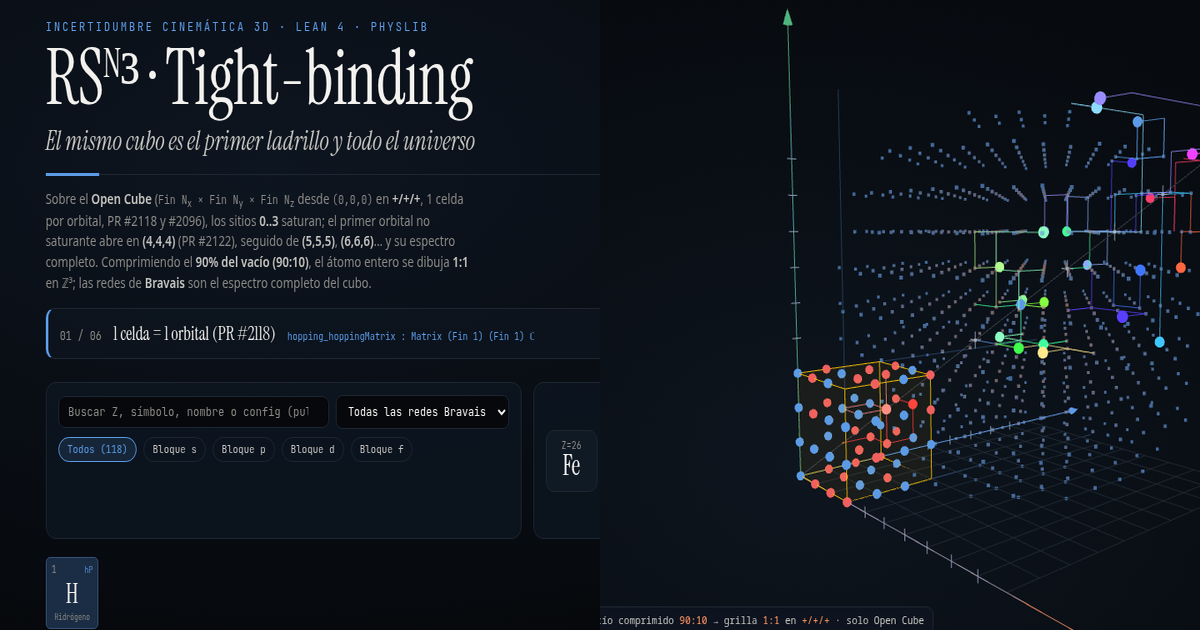
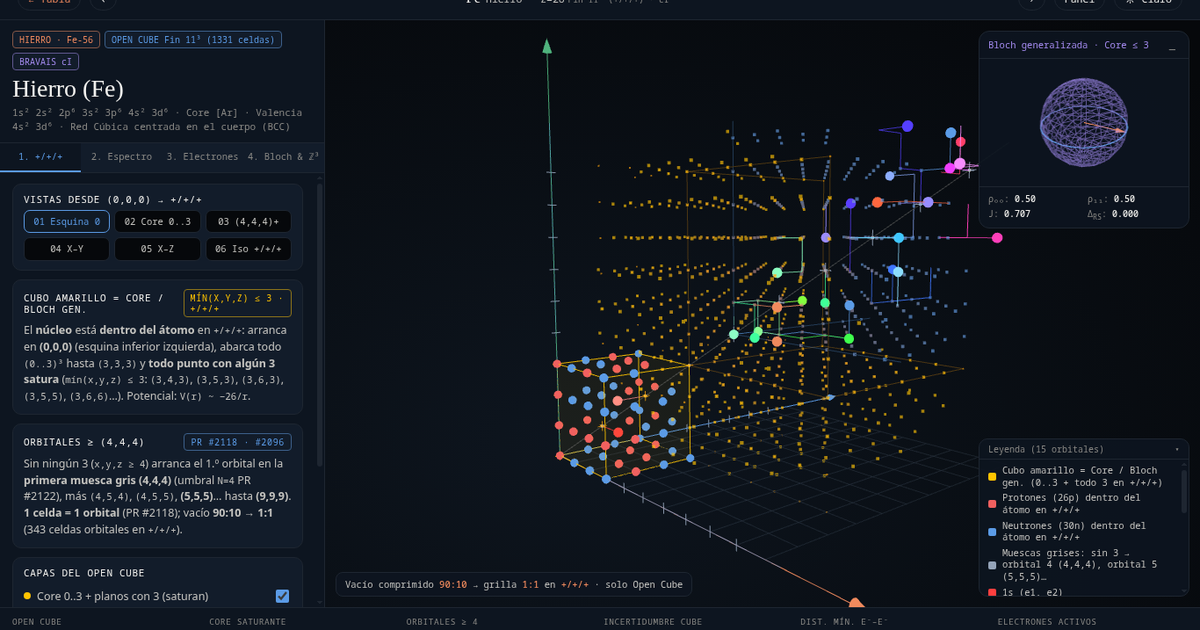
fix(canon-v2): nucleo 100% dentro de +/+/+ desde (0,0,0), planos saturantes con 3 y orbitales >= (4,4,4)

diff --git a/docs/shared/js/visor-cubo.js b/docs/shared/js/visor-cubo.js
@@ -59,8 +59,8 @@
   // ---- Poblar HUD textual por elemento (cero residuos heredados) -----------
   var N = elem.cajaN;
   var totalSites = N * N * N;
-  var coreSitesPos = 64; // (0..3)^3 en +/+/+
-  var freeSitesPos = totalSites - coreSitesPos;
+  var freeSitesPos = Math.pow(Math.max(0, N - 4), 3); // x,y,z >= 4 sin ningún 3
+  var coreSitesPos = totalSites - freeSitesPos; // min(x,y,z) <= 3 en +/+/+
   var cN = calcCN(N);
   var detRatio = Math.pow(cN, 6);
 
@@ -73,13 +73,12 @@
     " · Valencia " + elem.valencia + " · Red " + elem.bravais.nombre;
 
   document.getElementById("core-desc-txt").innerHTML =
-    "El <b>cubo amarillo</b> (<code>[-3,3]³</code> = 343 sitios, octante <code>+/+/+</code> en <code>0..3</code>) <b>es</b> la esfera de Bloch generalizada para todos los átomos: " +
-    "aloja los protones (rojo), neutrones (azul) y electrones saturados (<code>d ≤ 3</code>). Potencial de referencia: <code>V(r) ~ −" + elem.z + "/r</code>.";
+    "El <b>núcleo</b> está <b>dentro del átomo</b> en <code>+/+/+</code>: arranca en <b>(0,0,0)</b> (esquina inferior izquierda), abarca todo <code>(0..3)³</code> hasta <code>(3,3,3)</code> y <b>todo punto con algún 3 satura</b> (<code>mín(x,y,z) ≤ 3</code>: <code>(3,4,3)</code>, <code>(3,5,3)</code>, <code>(3,6,3)</code>, <code>(3,5,5)</code>, <code>(3,6,6)</code>…). Potencial: <code>V(r) ~ −" + elem.z + "/r</code>.";
 
   document.getElementById("open-desc-txt").innerHTML =
-    "Pasado el cubo amarillo, la <b>primera muesca gris</b> en <b>(4,4,4)</b> es el <b>orbital 4</b> (1.º no saturado fuera del núcleo, umbral <code>N=4</code> PR #2122), seguido de <b>(5,5,5)</b> (orbital 5)… hasta " +
+    "Sin ningún 3 (<code>x,y,z ≥ 4</code>) arranca el 1.º orbital en la <b>primera muesca gris (4,4,4)</b> (umbral <code>N=4</code> PR #2122), más <code>(4,5,4)</code>, <code>(4,5,5)</code>, <b>(5,5,5)</b>… hasta " +
     (elem.kMax >= 4 ? "<b>(" + elem.kMax + "," + elem.kMax + "," + elem.kMax + ")</b>" : "el borde abierto") +
-    ". <b>1 celda = 1 orbital</b> (PR #2118); vacío comprimido <b>90:10 → 1:1</b> (" + freeSitesPos + " celdas en <code>+/+/+</code>).";
+    ". <b>1 celda = 1 orbital</b> (PR #2118); vacío <b>90:10 → 1:1</b> (" + freeSitesPos + " celdas orbitales en <code>+/+/+</code>).";
 
   document.getElementById("bravais-link").href = "https://naype888-cloud.github.io/nrs3-cristales/lab/#" + elem.bravais.id;
   document.getElementById("bravais-txt").textContent =
@@ -87,7 +86,7 @@
     "Las redes de Bravais son el espectro completo de pasos de eje del cubo.";
 
   document.getElementById("stat-cubo").textContent = "Fin " + N + "³ (+/+/+)";
-  document.getElementById("stat-core").textContent = "0..3 (64 pos / 343 tot)";
+  document.getElementById("stat-core").textContent = "0..3 + todo 3 (" + coreSitesPos + " en +/+/+)";
   document.getElementById("stat-orb").textContent = elem.kMax >= 4 ? "(4,4,4)→(" + elem.kMax + "," + elem.kMax + "," + elem.kMax + ")" : "(4,4,4) umbral";
   document.getElementById("stat-cn").textContent = "C_" + N + "=" + cN.toFixed(4) + " · ΠC²=" + detRatio.toFixed(3);
   document.getElementById("stat-elec").textContent = elem.z + " / " + elem.z;
@@ -220,48 +219,75 @@
   }
 
   function buildCoreSaturante() {
-    // Cubo amarillo saturante = Esfera de Bloch generalizada (d <= 3):
-    // octante +/+/+ [0,3]^3 (64 sitios) y envolvente tenue del core completo [-3,3]^3 (343 sitios)
+    // Núcleo y cubo amarillo 100% DENTRO de +/+/+ (nunca en coordenadas negativas < 0):
+    // 1) Bloque interior [0,3]^3 desde la esquina inferior izquierda (0,0,0) hasta (3,3,3) (64 sitios).
+    // 2) Todo punto en +/+/+ que contenga un 3 (min(x,y,z) <= 3): planos x=3, y=3, z=3 hacia 4,5,6...
+    //    incluyendo (3,4,3), (3,5,3), (3,6,3), (3,5,5), (3,6,6), etc.
     var box = new THREE.BoxGeometry(3, 3, 3);
     box.translate(1.5, 1.5, 1.5);
     gCore.add(new THREE.LineSegments(
       new THREE.EdgesGeometry(box),
-      new THREE.LineBasicMaterial({ color: 0xffc400, transparent: true, opacity: 0.85 })
+      new THREE.LineBasicMaterial({ color: 0xffc400, transparent: true, opacity: 0.88 })
     ));
     gCore.add(new THREE.Mesh(
       box,
-      new THREE.MeshBasicMaterial({ color: 0xffc400, transparent: true, opacity: 0.055, depthWrite: false })
+      new THREE.MeshBasicMaterial({ color: 0xffc400, transparent: true, opacity: 0.06, depthWrite: false })
     ));
-    // Envolvente tenue del core completo 343 sitios [-3,3]^3 cuando A > 64
-    if (elem.z + elem.n > 64) {
-      var fullBox = new THREE.BoxGeometry(6, 6, 6);
-      gCore.add(new THREE.LineSegments(
-        new THREE.EdgesGeometry(fullBox),
-        new THREE.LineBasicMaterial({ color: 0xffc400, transparent: true, opacity: 0.24 })
-      ));
-    }
-    // Sitios internos de [0,3]^3 (1..3 dorado, 0 gris tenue)
-    var ptsHab = [], ptsZero = [];
-    for (var x = 0; x <= 3; x++) for (var y = 0; y <= 3; y++) for (var z = 0; z <= 3; z++) {
-      if (x === 0 || y === 0 || z === 0) ptsZero.push(x, y, z);
-      else ptsHab.push(x, y, z);
+
+    // Sitios del bloque [0,3]^3 llegando explícitamente hasta (0,0,0) + franjas saturantes con 3 (hasta lim)
+    var ptsInner = [], ptsSlab3 = [], ptsZero = [];
+    var lim = Math.min(N - 1, Math.max(7, elem.kMax));
+    for (var x = 0; x <= lim; x++) {
+      for (var y = 0; y <= lim; y++) {
+        for (var z = 0; z <= lim; z++) {
+          if (x <= 3 && y <= 3 && z <= 3) {
+            if (x === 0 || y === 0 || z === 0) ptsZero.push(x, y, z);
+            else ptsInner.push(x, y, z);
+          } else if (x === 3 || y === 3 || z === 3) {
+            // Todo punto en +/+/+ que lleva al menos un 3 satura: (3,4,3), (3,5,3), (3,6,3), (3,5,5), (3,6,6)...
+            ptsSlab3.push(x, y, z);
+          }
+        }
+      }
     }
     var gH = new THREE.BufferGeometry();
-    gH.setAttribute("position", new THREE.Float32BufferAttribute(ptsHab, 3));
-    gCore.add(new THREE.Points(gH, new THREE.PointsMaterial({ color: 0xffc400, size: 0.11, transparent: true, opacity: 0.72 })));
+    gH.setAttribute("position", new THREE.Float32BufferAttribute(ptsInner, 3));
+    gCore.add(new THREE.Points(gH, new THREE.PointsMaterial({ color: 0xffc400, size: 0.13, transparent: true, opacity: 0.8 })));
     var gZ = new THREE.BufferGeometry();
     gZ.setAttribute("position", new THREE.Float32BufferAttribute(ptsZero, 3));
-    gCore.add(new THREE.Points(gZ, new THREE.PointsMaterial({ color: 0x8a8985, size: 0.07, transparent: true, opacity: 0.35 })));
+    gCore.add(new THREE.Points(gZ, new THREE.PointsMaterial({ color: 0xf59e0b, size: 0.09, transparent: true, opacity: 0.55 })));
+    if (ptsSlab3.length) {
+      var gS3 = new THREE.BufferGeometry();
+      gS3.setAttribute("position", new THREE.Float32BufferAttribute(ptsSlab3, 3));
+      gCore.add(new THREE.Points(gS3, new THREE.PointsMaterial({ color: 0xf59e0b, size: 0.12, transparent: true, opacity: 0.68 })));
+    }
+    // Guías sutiles de las 3 paredes x=3, y=3, z=3 extendiéndose en +/+/+ (si tiene un 3, satura)
+    var wallMat = new THREE.LineBasicMaterial({ color: 0xf59e0b, transparent: true, opacity: 0.28 });
+    var wallLines = [
+      [[3, 3, 3], [lim, 3, 3]], [[3, 3, 3], [3, lim, 3]], [[3, 3, 3], [3, 3, lim]],
+      [[3, lim, 3], [lim, lim, 3]], [[lim, 3, 3], [lim, lim, 3]],
+      [[3, 3, lim], [lim, 3, lim]], [[lim, 3, 3], [lim, 3, lim]],
+      [[3, 3, lim], [3, lim, lim]], [[3, lim, 3], [3, lim, lim]]
+    ];
+    wallLines.forEach(function (seg) {
+      gCore.add(new THREE.Line(
+        new THREE.BufferGeometry().setFromPoints([
+          new THREE.Vector3(seg[0][0], seg[0][1], seg[0][2]),
+          new THREE.Vector3(seg[1][0], seg[1][1], seg[1][2])
+        ]),
+        wallMat
+      ));
+    });
   }
 
   function buildOpenCubeFrame() {
-    // Marco abierto desde (0,0,0) hacia +/+/+ -> inf (sin tapa cerrada en el extremo lejano)
+    // Marco abierto desde (0,0,0) hacia +/+/+ -> inf + frontera pura de orbitales (4,4,4)+
     var L = N - 0.5;
     var mat = new THREE.LineBasicMaterial({ color: 0x5b9be6, transparent: true, opacity: 0.3 });
     var rays = [
       [[0,0,0],[L,0,0]], [[0,0,0],[0,L,0]], [[0,0,0],[0,0,L]],
       [[3,0,0],[L,0,0]], [[0,3,0],[0,L,0]], [[0,0,3],[0,0,L]],
-      [[3,3,0],[L,3,0]], [[3,0,3],[L,0,3]], [[0,3,3],[0,L,3]]
+      [[4,4,4],[L,4,4]], [[4,4,4],[4,L,4]], [[4,4,4],[4,4,L]]
     ];
     rays.forEach(function (r) {
       gOpenBox.add(new THREE.Line(
@@ -270,59 +296,63 @@
       ));
     });
 
-    // Muescas grises de referencia para los orbitales 4, 5, ... (sin cubitos ni cajas amarillas)
+    // Muescas de referencia desde (0,0,0): 0..3 interior saturante (dorado) y >= 4 orbitales (gris)
     var maxK = Math.max(5, elem.kMax);
+    var coreTickMat = new THREE.LineBasicMaterial({ color: 0xf59e0b, transparent: true, opacity: 0.8 });
     var notchMat = new THREE.LineBasicMaterial({ color: 0x94a3b8, transparent: true, opacity: 0.9 });
     var notchPts = [];
-    for (var k = 4; k <= maxK; k++) {
-      var d = 0.24;
+    for (var k = 0; k <= maxK; k++) {
+      var m = k <= 3 ? coreTickMat : notchMat;
+      var d = k <= 3 ? 0.16 : 0.24;
       notchPts.push(k, k, k);
-      gOpenBox.add(new THREE.Line(new THREE.BufferGeometry().setFromPoints([new THREE.Vector3(k - d, k, k), new THREE.Vector3(k + d, k, k)]), notchMat));
-      gOpenBox.add(new THREE.Line(new THREE.BufferGeometry().setFromPoints([new THREE.Vector3(k, k - d, k), new THREE.Vector3(k, k + d, k)]), notchMat));
-      gOpenBox.add(new THREE.Line(new THREE.BufferGeometry().setFromPoints([new THREE.Vector3(k, k, k - d), new THREE.Vector3(k, k, k + d)]), notchMat));
-      // Muescas sobre ejes +X, +Y, +Z
-      gOpenBox.add(new THREE.Line(new THREE.BufferGeometry().setFromPoints([new THREE.Vector3(k, -0.15, 0), new THREE.Vector3(k, 0.15, 0)]), notchMat));
-      gOpenBox.add(new THREE.Line(new THREE.BufferGeometry().setFromPoints([new THREE.Vector3(-0.15, k, 0), new THREE.Vector3(0.15, k, 0)]), notchMat));
-      gOpenBox.add(new THREE.Line(new THREE.BufferGeometry().setFromPoints([new THREE.Vector3(0, -0.15, k), new THREE.Vector3(0, 0.15, k)]), notchMat));
+      gOpenBox.add(new THREE.Line(new THREE.BufferGeometry().setFromPoints([new THREE.Vector3(k - d, k, k), new THREE.Vector3(k + d, k, k)]), m));
+      gOpenBox.add(new THREE.Line(new THREE.BufferGeometry().setFromPoints([new THREE.Vector3(k, k - d, k), new THREE.Vector3(k, k + d, k)]), m));
+      gOpenBox.add(new THREE.Line(new THREE.BufferGeometry().setFromPoints([new THREE.Vector3(k, k, k - d), new THREE.Vector3(k, k, k + d)]), m));
+      // Muescas sobre ejes +X, +Y, +Z desde 0
+      gOpenBox.add(new THREE.Line(new THREE.BufferGeometry().setFromPoints([new THREE.Vector3(k, -0.15, 0), new THREE.Vector3(k, 0.15, 0)]), m));
+      gOpenBox.add(new THREE.Line(new THREE.BufferGeometry().setFromPoints([new THREE.Vector3(-0.15, k, 0), new THREE.Vector3(0.15, k, 0)]), m));
+      gOpenBox.add(new THREE.Line(new THREE.BufferGeometry().setFromPoints([new THREE.Vector3(0, -0.15, k), new THREE.Vector3(0, 0.15, k)]), m));
     }
     var nGeom = new THREE.BufferGeometry();
     nGeom.setAttribute("position", new THREE.Float32BufferAttribute(notchPts, 3));
     gOpenBox.add(new THREE.Points(nGeom, new THREE.PointsMaterial({ color: 0xc4c3bf, size: 0.22 })));
 
-    // Guía diagonal sutil (0,0,0) -> (4,4,4) -> (5,5,5) -> inf
+    // Guía diagonal continua desde el ancla inferior izquierda (0,0,0) -> (3,3,3) -> (4,4,4) -> (5,5,5) -> inf
     gOpenBox.add(new THREE.Line(
       new THREE.BufferGeometry().setFromPoints([new THREE.Vector3(0, 0, 0), new THREE.Vector3(maxK + 0.8, maxK + 0.8, maxK + 0.8)]),
-      new THREE.LineBasicMaterial({ color: 0x8a8985, transparent: true, opacity: 0.35 })
+      new THREE.LineBasicMaterial({ color: 0x8a8985, transparent: true, opacity: 0.42 })
     ));
   }
 
   function buildNucleusInCore() {
-    // Protones (rojos) y neutrones (azules) distribuidos entre cualquiera de los 343 sitios internos
-    // del cubo amarillo saturante [-3,3]^3 (priorizando primero el octante +/+/+ [0,3]^3).
-    var sites343 = [];
-    for (var x = -3; x <= 3; x++) {
-      for (var y = -3; y <= 3; y++) {
-        for (var z = -3; z <= 3; z++) {
-          if (x === 0 && y === 0 && z === 0) continue;
-          // No pisar los sitios iniciales de 1s (1,1,1) y (2,2,2)
-          if ((x === 1 && y === 1 && z === 1) || (x === 2 && y === 2 && z === 2)) continue;
-          var inPosHab = (x >= 1 && y >= 1 && z >= 1);
-          var inPos = (x >= 0 && y >= 0 && z >= 0);
+    // Protones (rojos) y neutrones (azules) 100% DENTRO del átomo en +/+/+ (NUNCA x,y,z < 0).
+    // Empieza en (0,0,0), abarca todo [0,3]^3 hacia (3,3,3) y continúa por todos los sitios con algún 3
+    // (min(x,y,z) <= 3: (3,4,3), (3,5,3), (3,6,3), (3,5,5), (3,6,6)...) hasta alojar los A nucleones.
+    var satSites = [];
+    var lim = Math.min(N - 1, Math.max(7, elem.kMax));
+    for (var x = 0; x <= lim; x++) {
+      for (var y = 0; y <= lim; y++) {
+        for (var z = 0; z <= lim; z++) {
+          if (x > 3 && y > 3 && z > 3) continue; // Si no tiene ningún 3 (o <= 3) es orbital, no núcleo
+          if ((x === 1 && y === 1 && z === 1) || (x === 2 && y === 2 && z === 2)) continue; // slots iniciales 1s
+          var inBox03 = (x <= 3 && y <= 3 && z <= 3);
+          var has3 = (x === 3 || y === 3 || z === 3);
+          var tier = (x === 0 && y === 0 && z === 0) ? 0 : (inBox03 ? 1 : (has3 ? 2 : 3));
+          var maxC = Math.max(x, y, z);
           var dist = x * x + y * y + z * z;
-          sites343.push({ p: [x, y, z], tier: inPosHab ? 0 : (inPos ? 1 : 2), dist: dist });
+          satSites.push({ p: [x, y, z], tier: tier, maxC: maxC, dist: dist });
         }
       }
     }
-    sites343.push({ p: [0, 0, 0], tier: 1, dist: 0 });
-    sites343.sort(function (a, b) {
-      return a.tier - b.tier || a.dist - b.dist || a.p[0] - b.p[0];
+    satSites.sort(function (a, b) {
+      return a.tier - b.tier || a.maxC - b.maxC || a.dist - b.dist || a.p[0] - b.p[0] || a.p[1] - b.p[1];
     });
 
     var A = elem.z + elem.n;
     var pCount = elem.z, nCount = elem.n;
     var pPos = [], nPos = [];
-    for (var i = 0; i < A && i < sites343.length; i++) {
-      var pt = sites343[i].p;
+    for (var i = 0; i < A && i < satSites.length; i++) {
+      var pt = satSites[i].p;
       var isP = (i % 2 === 0 && pCount > 0) || nCount === 0;
       if (isP) { pCount--; pPos.push(pt); } else { nCount--; nPos.push(pt); }
     }
@@ -419,7 +449,7 @@
         sc.set(s, s, s);
         m4.compose(pos, q, sc);
         specMesh.setMatrixAt(i, m4);
-        var isSat = coords[3 * i] <= 3 && coords[3 * i + 1] <= 3 && coords[3 * i + 2] <= 3;
+        var isSat = coords[3 * i] <= 3 || coords[3 * i + 1] <= 3 || coords[3 * i + 2] <= 3;
         col.copy(isSat ? cSat : cOpen).lerp(cHot, wn * 0.72);
         specMesh.setColorAt(i, col);
       }
@@ -436,7 +466,7 @@
         pArr[3 * j] = coords[3 * j];
         pArr[3 * j + 1] = coords[3 * j + 1];
         pArr[3 * j + 2] = coords[3 * j + 2];
-        var isSat2 = coords[3 * j] <= 3 && coords[3 * j + 1] <= 3 && coords[3 * j + 2] <= 3;
+        var isSat2 = coords[3 * j] <= 3 || coords[3 * j + 1] <= 3 || coords[3 * j + 2] <= 3;
         col2.copy(isSat2 ? cSat : cOpen).lerp(cHot, wn2 * 0.78);
         cArr[3 * j] = col2.r; cArr[3 * j + 1] = col2.g; cArr[3 * j + 2] = col2.b;
       }
@@ -522,10 +552,10 @@
 
     // Leyenda acotada con scroll
     var fixedItems = [
-      { col: "#ffc400", txt: "Cubo amarillo = Core / Bloch gen. (343 sitios)" },
-      { col: "#f0605f", txt: "Protones (" + elem.z + "p) dentro del core" },
-      { col: "#5b9be6", txt: "Neutrones (" + elem.n + "n) dentro del core" },
-      { col: "#94a3b8", txt: "Muescas grises: orbital 4 (4,4,4), orbital 5 (5,5,5)…" }
+      { col: "#ffc400", txt: "Cubo amarillo = Core / Bloch gen. (0..3 + todo 3 en +/+/+)" },
+      { col: "#f0605f", txt: "Protones (" + elem.z + "p) dentro del átomo en +/+/+" },
+      { col: "#5b9be6", txt: "Neutrones (" + elem.n + "n) dentro del átomo en +/+/+" },
+      { col: "#94a3b8", txt: "Muescas grises: sin 3 → orbital 4 (4,4,4), orbital 5 (5,5,5)…" }
     ];
     fixedItems.forEach(function (it) {
       var d = document.createElement("div");

diff --git a/docs/ver.html b/docs/ver.html
@@ -56,7 +56,7 @@
         </div>
 
         <div class="vcard">
-          <div class="vcard-title"><span>Cubo amarillo = Core / Bloch gen.</span><span class="vbadge gold">d ≤ 3 · 343 sitios</span></div>
+          <div class="vcard-title"><span>Cubo amarillo = Core / Bloch gen.</span><span class="vbadge gold">mín ≤ 3 · +/+/+</span></div>
           <p class="vcard-desc" id="core-desc-txt"></p>
         </div>
 
@@ -67,12 +67,12 @@
 
         <div class="vcard">
           <div class="vcard-title"><span>Capas del Open Cube</span></div>
-          <div class="tog-row"><label><span class="dot" style="background:var(--gold)"></span>Cubo amarillo = Core / Bloch gen. (≤ 3)</label><input type="checkbox" id="tog-core" checked></div>
+          <div class="tog-row"><label><span class="dot" style="background:var(--gold)"></span>Core 0..3 + planos con 3 (saturan)</label><input type="checkbox" id="tog-core" checked></div>
           <div class="tog-row"><label><span class="dot" style="background:var(--blue)"></span>Marco abierto +/+/+ y muescas 4, 5…</label><input type="checkbox" id="tog-open" checked></div>
           <div class="tog-row"><label><span class="dot" style="background:var(--warm)"></span>Espectro Open Cube |ψ|²</label><input type="checkbox" id="tog-spec" checked></div>
           <div class="tog-row"><label><span class="dot" style="background:var(--green)"></span>Ejes +X,+Y,+Z y planos 0=0</label><input type="checkbox" id="tog-axes" checked></div>
           <div class="tog-row"><label><span class="dot" style="background:var(--muted)"></span>Rejilla 0=0 (conmutación)</label><input type="checkbox" id="tog-zero" checked></div>
-          <div class="tog-row"><label><span class="dot" style="background:var(--red)"></span>Protones y neutrones en los 343 sitios</label><input type="checkbox" id="tog-nuc" checked></div>
+          <div class="tog-row"><label><span class="dot" style="background:var(--red)"></span>Protones y neutrones en +/+/+ (≤ 3)</label><input type="checkbox" id="tog-nuc" checked></div>
           <div class="tog-row"><label><span class="dot" style="background:var(--warm)"></span>Estelas de salto (hopping)</label><input type="checkbox" id="tog-trails" checked></div>
           <div class="tog-row"><label><span class="dot" style="background:var(--muted)"></span>7 octantes de fluctuación (tenues)</label><input type="checkbox" id="tog-fluct"></div>
         </div>
